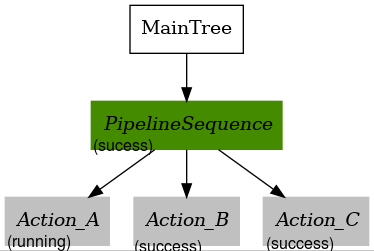
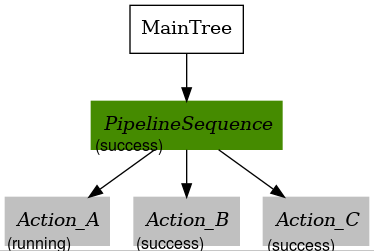
fixed typos on image, and guide

diff --git a/tutorials/docs/custom_behavior_tree.rst b/tutorials/docs/custom_behavior_tree.rst
@@ -77,7 +77,7 @@ The rate controller node helps control the ticking of it's children nodes. The t
 
 Control: PipelineSequence
 -------------------------
-The PipelineSequence condition node re-ticks previous children when a child returns ``RUNNING``.
+The PipelineSequence control node re-ticks previous children when a child returns ``RUNNING``.
 This node is similar to the ``Sequence`` node, with the additional property that the children prior to the "current" are reticked, (resembling the flow of water in a pipe).
 If at any point a child returns ``FAILURE``, all children will be halted and the parent node will also return  ``SUCCESS``. Upon ``SUCCESS`` of the last node in the sequence, this node will halt and return ``SUCCESS``.
 
